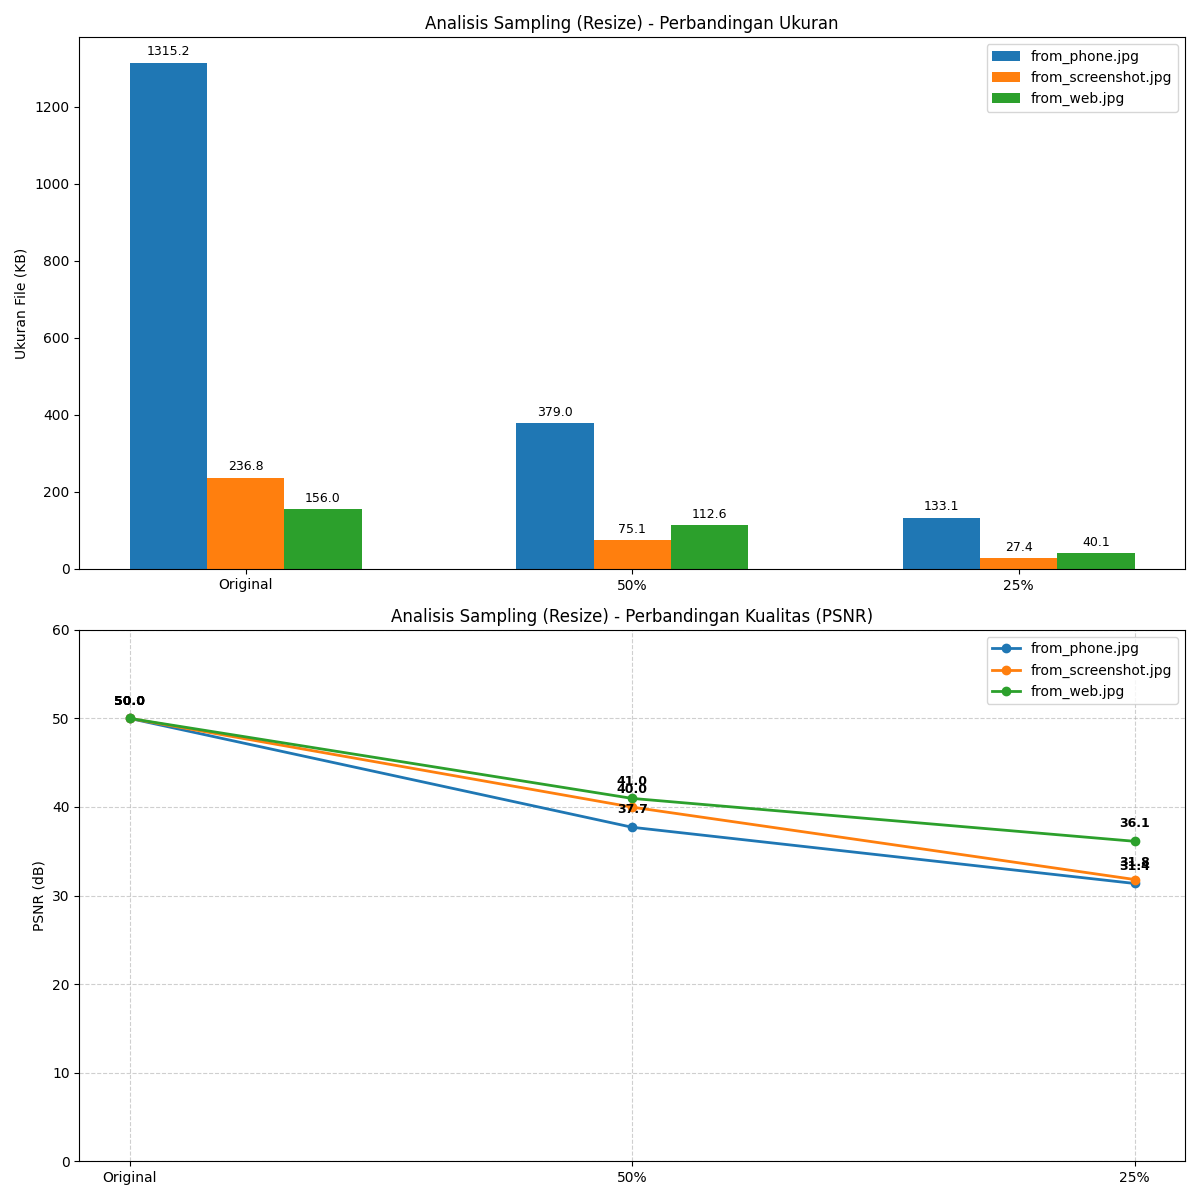
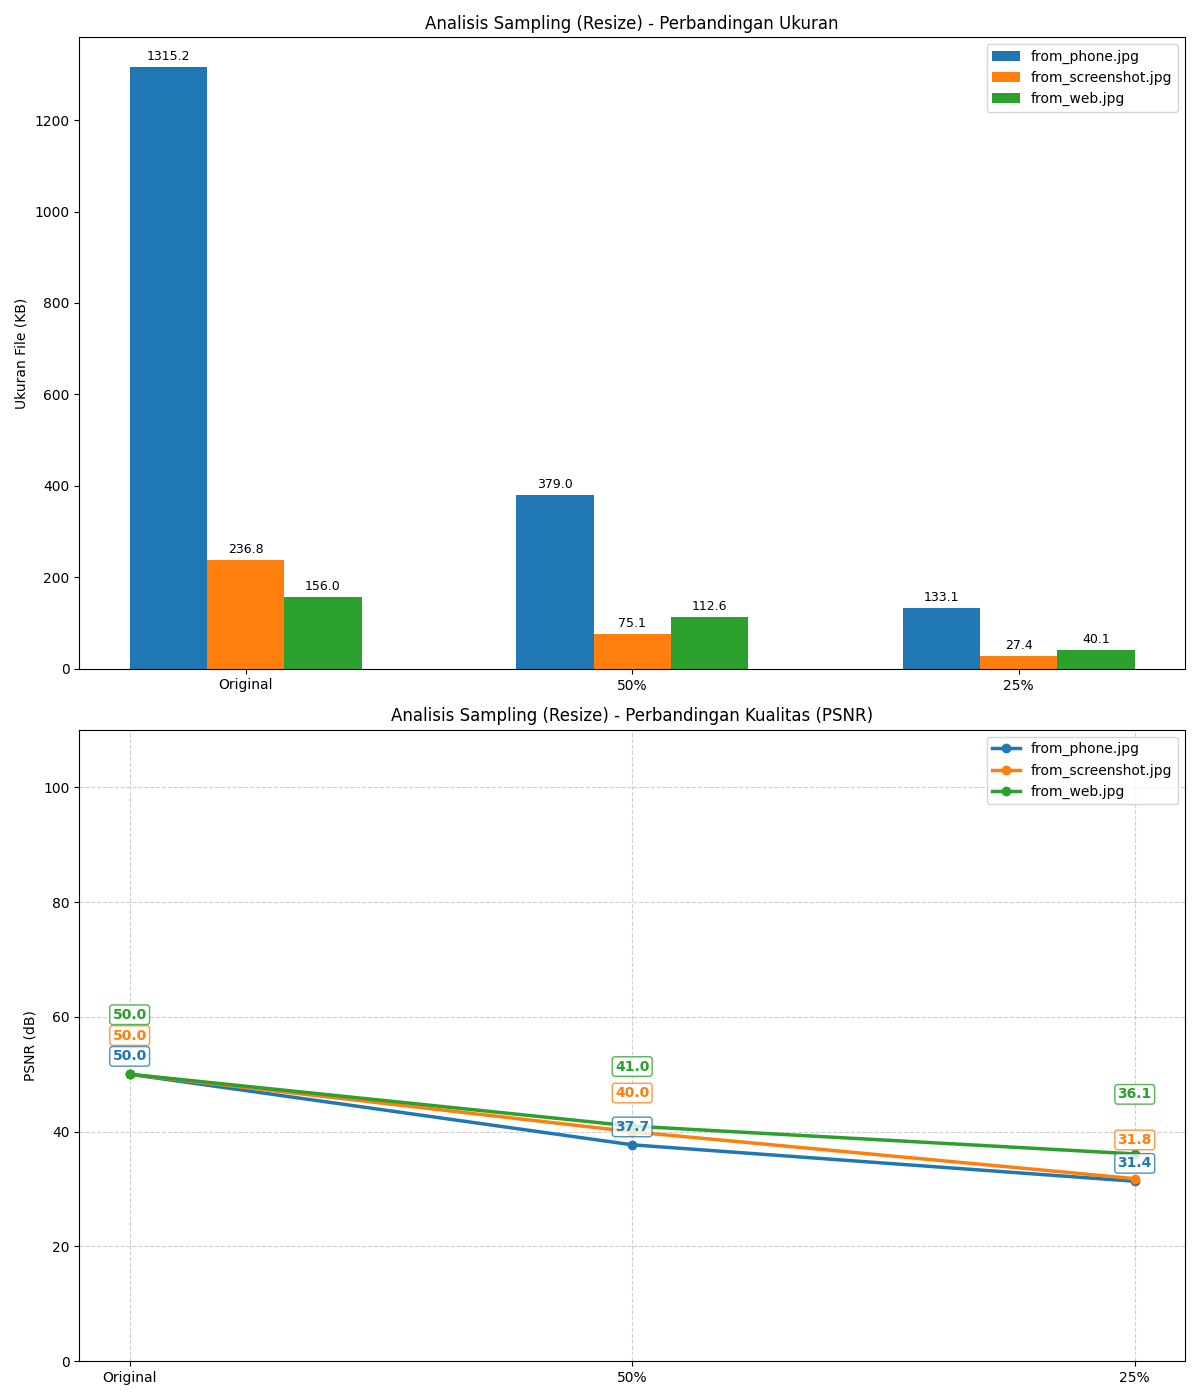
Fix label overlap

diff --git a/main.py b/main.py
@@ -41,12 +41,12 @@ def create_combined_plot(data, title, filename):
     labels = data['categories']
     images = data['images']
     
-    # Inisialisasi dua subplot (atas untuk ukuran, bawah untuk kualitas)
-    fig, (ax1, ax2) = plt.subplots(2, 1, figsize=(12, 12))
+    # Menambah tinggi figure agar label tidak terpotong (12 -> 14)
+    fig, (ax1, ax2) = plt.subplots(2, 1, figsize=(12, 14))
     x = np.arange(len(labels))
-    width = 0.2  # Lebar batang untuk setiap sampel citra
+    width = 0.2
     
-    # --- BAGIAN 1: GRAFIK UKURAN FILE (BAR CHART) ---
+    # 1. Bar Chart (Ukuran File) - Tidak berubah banyak
     for i, img_data in enumerate(images):
         # Mengatur posisi batang agar tidak tumpang tindih
         offset = (i - 1) * width
@@ -63,37 +63,39 @@ def create_combined_plot(data, title, filename):
 
     # --- BAGIAN 2: GRAFIK KUALITAS CITRA / PSNR (LINE CHART) ---
     for i, img_data in enumerate(images):
-        # Plot garis untuk setiap sampel citra
-        line = ax2.plot(labels, img_data['psnrs'], marker='o', label=img_data['name'], linewidth=2)
+        # Plot garis dan ambil warnanya
+        line = ax2.plot(labels, img_data['psnrs'], marker='o', label=img_data['name'], linewidth=2.5)
+        color = line[0].get_color()
         
-        # Menambahkan label angka presisi pada setiap titik koordinat (x, y)
+        # STRATEGI: Staggered Offset (i=0 -> 10, i=1 -> 25, i=2 -> 40)
+        # Menumpuk label secara vertikal agar tidak bertabrakan di titik X yang sama
+        y_label_offset = 10 + (i * 15) 
+        
         for j, val in enumerate(img_data['psnrs']):
             ax2.annotate(f'{val:.1f}', 
                          (labels[j], img_data['psnrs'][j]),
                          textcoords="offset points", 
-                         xytext=(0, 10), 
+                         xytext=(0, y_label_offset), 
                          ha='center', 
-                         fontsize=9,
-                         fontweight='bold')
+                         fontsize=10,
+                         fontweight='bold',
+                         color=color, # Warna teks sesuai warna garis
+                         bbox=dict(boxstyle='round,pad=0.2', fc='white', alpha=0.8, ec=color))
     
     ax2.set_ylabel('PSNR (dB)')
     ax2.set_title(f'{title} - Perbandingan Kualitas (PSNR)')
     
-    # Menyesuaikan batas atas sumbu Y agar label angka tidak terpotong
+    # Beri margin atas yang lebih luas (50 dB ekstra) agar label tertinggi tidak terpotong
     if images:
         max_psnr = max([max(img['psnrs']) for img in images])
-        ax2.set_ylim(bottom=0, top=max_psnr * 1.2)
+        ax2.set_ylim(0, max_psnr + 60) 
         
     ax2.grid(True, linestyle='--', alpha=0.6)
-    ax2.legend()
+    ax2.legend(loc='upper right')
 
-    # Mengatur tata letak agar rapi dan tidak saling bertumpuk
     plt.tight_layout()
-    
-    # Menyimpan grafik ke direktori hasil 
-    output_path = os.path.join(OUTPUT_DIR, filename)
-    plt.savefig(output_path)
-    print(f"Grafik berhasil disimpan: {output_path}")
+    plt.savefig(os.path.join(OUTPUT_DIR, filename))
+    print(f"Grafik diperbarui: {filename}")
 
 def process_assignment():
     image_files = [f for f in os.listdir(INPUT_DIR) if f.lower().endswith(('.png', '.jpg', '.jpeg'))]
